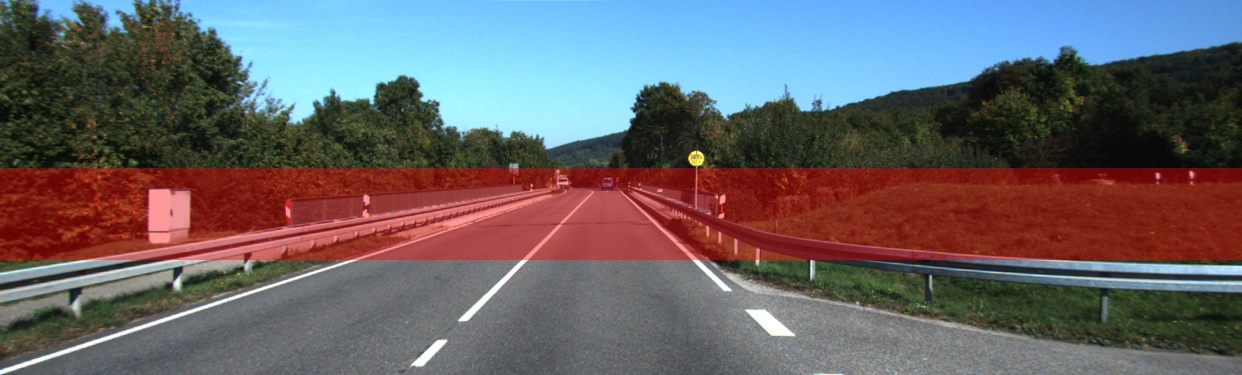
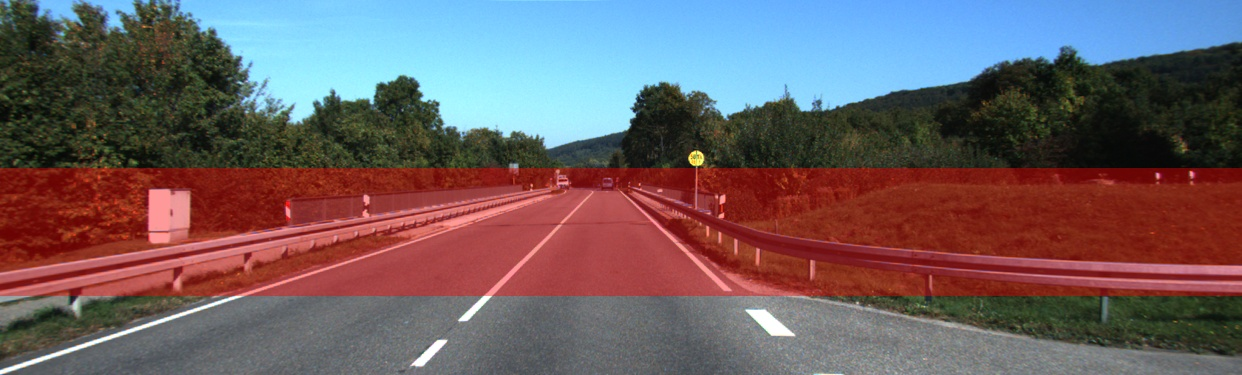
Task2 completed

Changed region(s): [[0.0, 0.6747, 1.0, 0.792]]

diff --git a/LAB-4/Task2/Task2.cpp b/LAB-4/Task2/Task2.cpp
@@ -1,7 +1,6 @@
 #include <opencv2/opencv.hpp>
 #include <iostream>
 #include <vector>
-#include <algorithm>
 #include <cmath>
 
 int main() {
@@ -11,7 +10,7 @@ int main() {
         std::cerr << "Error: Could not load image!" << std::endl;
         return -1;
     }
-    
+
     // Convert to grayscale and apply Canny edge detector
     cv::Mat gray, edges;
     cv::cvtColor(src, gray, cv::COLOR_BGR2GRAY);
@@ -20,46 +19,84 @@ int main() {
 
     // Detect lines using HoughLines
     std::vector<cv::Vec2f> lines;
-    cv::HoughLines(edges, lines, 1, CV_PI / 180, 150); // Adjust threshold as necessary
-    
-    // Filter for near-horizontal lines (theta near pi/2)
-    std::vector<int> y_coords;
-    const float thetaTolerance = 0.1f; // tolerance in radians
-    for (size_t i = 0; i < lines.size(); i++) {
-        float rho = lines[i][0];
-        float theta = lines[i][1];
-        if (std::fabs(theta - CV_PI / 2) < thetaTolerance) {
-            // With theta approx pi/2, the line equation is: y = rho.
-            int y = cvRound(rho);
-            // Only include candidates within the image boundaries.
-            if (y >= 0 && y < src.rows)
-                y_coords.push_back(y);
+    cv::HoughLines(edges, lines, 1, CV_PI / 180, 100); 
+
+    // Fixed angles: 139° and 40°
+    int angle1_deg = 139, angle2_deg = 40;
+
+    while (true) {
+        cv::Mat display = src.clone();
+        // Convert fixed angles from degrees to radians
+        double a1_rad = angle1_deg * CV_PI / 180.0;
+        double a2_rad = angle2_deg * CV_PI / 180.0;
+        const double tolerance = 5 * CV_PI / 180.0; // 5 degree tolerance
+
+        // Draw lines matching the selected angles
+        for (const auto& line : lines) {
+            float rho = line[0], theta = line[1];
+            if (std::abs(theta - a1_rad) < tolerance || std::abs(theta - a2_rad) < tolerance) {
+                double a = cos(theta), b = sin(theta);
+                double x0 = a * rho, y0 = b * rho;
+                cv::Point pt1(cvRound(x0 + 1000 * (-b)), cvRound(y0 + 1000 * (a)));
+                cv::Point pt2(cvRound(x0 - 1000 * (-b)), cvRound(y0 - 1000 * (a)));
+                cv::line(display, pt1, pt2, cv::Scalar(0, 0, 255), 2);
+            }
         }
+
+        // Select one line for each angle
+        bool found1 = false, found2 = false;
+        cv::Vec2f selLine1, selLine2;
+        for (const auto& line : lines) {
+            float rho = line[0], theta = line[1];
+            if (!found1 && std::abs(theta - a1_rad) < tolerance) {
+                selLine1 = line;
+                found1 = true;
+            }
+            if (!found2 && std::abs(theta - a2_rad) < tolerance) {
+                selLine2 = line;
+                found2 = true;
+            }
+            if (found1 && found2)
+                break;
+        }
+
+        if (found1 && found2) {
+            // Compute intersections of each selected line with the bottom edge
+            int y_bottom = display.rows - 1;
+            double rho1 = selLine1[0], theta1 = selLine1[1];
+            double rho2 = selLine2[0], theta2 = selLine2[1];
+            cv::Point ptBottom1, ptBottom2;
+            if (std::abs(std::cos(theta1)) > 1e-6)
+                ptBottom1.x = cvRound((rho1 - y_bottom * std::sin(theta1)) / std::cos(theta1));
+            else
+                ptBottom1.x = 0;
+            ptBottom1.y = y_bottom;
+            if (std::abs(std::cos(theta2)) > 1e-6)
+                ptBottom2.x = cvRound((rho2 - y_bottom * std::sin(theta2)) / std::cos(theta2));
+            else
+                ptBottom2.x = 0;
+            ptBottom2.y = y_bottom;
+
+            // Compute the intersection of the two selected lines
+            double a1 = std::cos(theta1), b1 = std::sin(theta1), c1 = rho1;
+            double a2 = std::cos(theta2), b2 = std::sin(theta2), c2 = rho2;
+            double det = a1 * b2 - a2 * b1;
+            if (std::abs(det) > 1e-6) {
+                int x_inter = cvRound((c1 * b2 - c2 * b1) / det);
+                int y_inter = cvRound((a1 * c2 - a2 * c1) / det);
+                cv::Point ptIntersection(x_inter, y_inter);
+
+                // Create triangle from bottom intersections and line intersection
+                std::vector<cv::Point> triangle = {ptBottom1, ptBottom2, ptIntersection};
+                // Fill triangle with red color (BGR: 0,0,255)
+                cv::fillConvexPoly(display, triangle, cv::Scalar(0, 0, 255));
+                // Optionally, draw triangle outline
+                cv::polylines(display, triangle, true, cv::Scalar(0, 0, 255), 2);
+            }
+        }
+
+        cv::imshow("Selected Lines", display);
+        if (cv::waitKey(30) == 27) break; // exit if ESC is pressed
     }
-    
-    if (y_coords.size() < 2) {
-        std::cerr << "Error: Less than two horizontal white lines detected!" << std::endl;
-        cv::imshow("Edges", edges);
-        cv::waitKey(0);
-        return -1;
-    }
-    
-    // Sort the y-coordinates
-    std::sort(y_coords.begin(), y_coords.end());
-    int topY = y_coords.front();
-    int bottomY = y_coords.back();
-    
-    // Draw a filled red rectangle from topY to bottomY covering full image width.
-    cv::Mat overlay = src.clone();
-    cv::rectangle(overlay, cv::Point(0, topY), cv::Point(src.cols - 1, bottomY), cv::Scalar(0, 0, 255), cv::FILLED);
-    
-    // Blend the overlay with the original image
-    double alpha = 0.4;
-    cv::addWeighted(overlay, alpha, src, 1.0 - alpha, 0.0, src);
-    
-    cv::imshow("Detected Horizontal Lines & Red Rectangle", src);
-    cv::waitKey(0);
-    cv::imwrite("output_red_rectangle.jpg", src);
-    cv::destroyAllWindows();
     return 0;
 }
